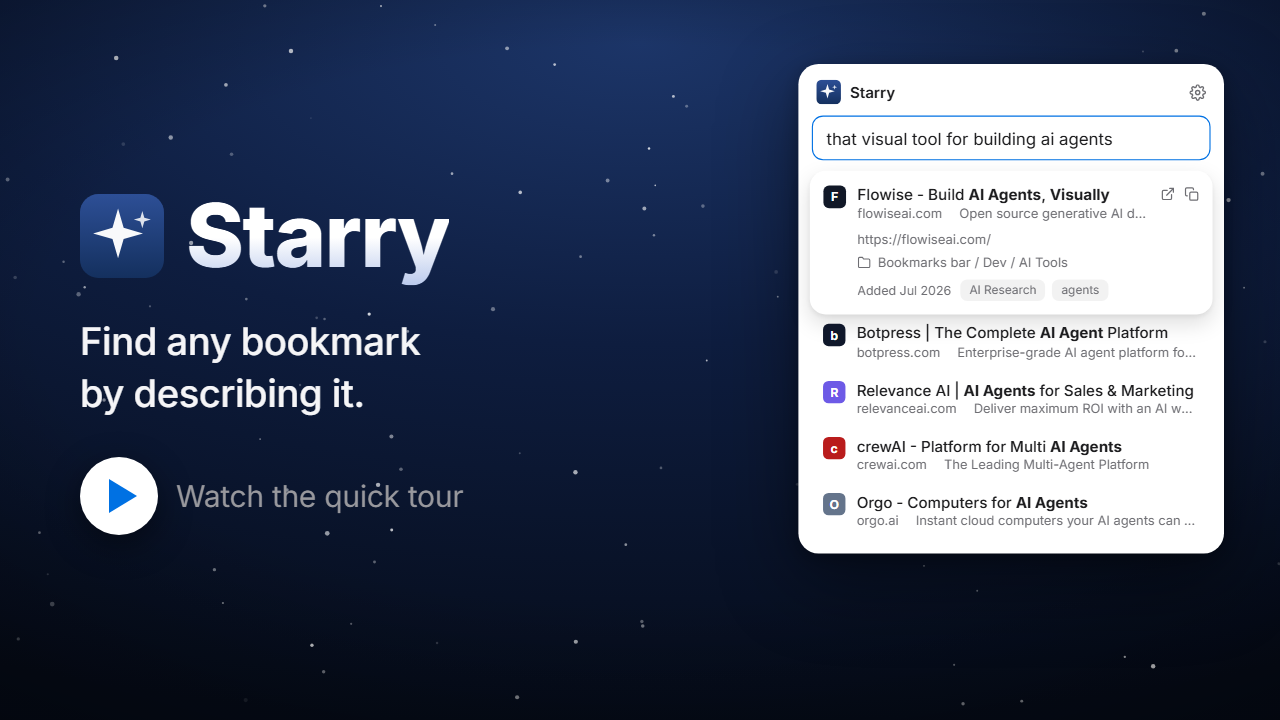
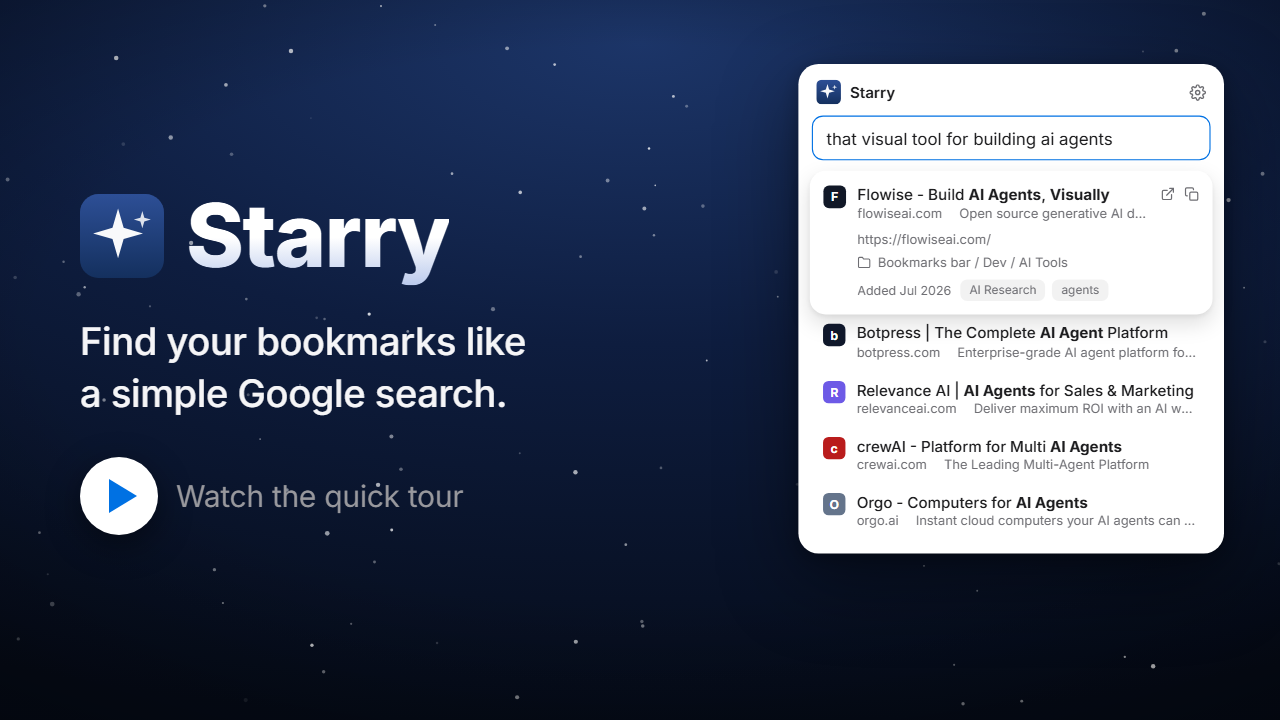
README: promo video is live — clickable thumbnail links to YouTube
- README hero is now the video thumbnail linking to
  https://www.youtube.com/watch?v=fpB1Djvemlw (replaces the static
  screenshot + the commented placeholder block)
- Thumbnail text now matches the store tagline ("Find your bookmarks like
  a simple Google search.") — re-rendered and committed
- docs/store/listing.md records the live URL for the dashboard's promo
  video field; promo/README.md carries it too

Changed region(s): [[0.0625, 0.4583, 0.4062, 0.5806]]

diff --git a/promo/src/Thumbnail.tsx b/promo/src/Thumbnail.tsx
@@ -46,9 +46,8 @@ export const Thumbnail: React.FC = () => (
           fontWeight: 500,
         }}
       >
-        Find any bookmark
-        <br />
-        by describing it.
+        Find your bookmarks like
+        <br />a simple Google search.
       </p>
       <div
         style={{ display: "flex", alignItems: "center", gap: 18, marginTop: 8 }}

diff --git a/docs/store/listing.md b/docs/store/listing.md
@@ -89,6 +89,7 @@ Starry asks to read your bookmarks because that is the whole point. Page reading
 - Small promo tile 440×280 (required in practice — tiles without it rank behind).
 - Marquee 1400×560 (optional; only for marquee featuring).
 - Promo video: YouTube URL field in the Store Listing tab. The video is rendered from the
-  `promo/` Remotion project (`promo/out/starry-promo.mp4`, ~44s, 1080p). Upload to YouTube as
-  Public or Unlisted, then paste the watch URL here and into the README's commented video block
-  (thumbnail already committed at `assets/promo-video-thumb.png`).
+  `promo/` Remotion project (`promo/out/starry-promo.mp4`, ~44s, 1080p). LIVE:
+  `https://www.youtube.com/watch?v=fpB1Djvemlw` — paste this into the dashboard field (video
+  must be Public or Unlisted). The README hero links to it via
+  `assets/promo-video-thumb.png`; set the same PNG as the YouTube custom thumbnail.

diff --git a/README.md b/README.md
@@ -15,19 +15,10 @@
 </p>
 
 <p align="center">
-  <img src="docs/store/assets/shot-1-search-light.png" width="720" alt="Starry ranking results for an ai agent search, with the top result's card expanded" />
-</p>
-
-<!-- PROMO VIDEO — after uploading promo/out/starry-promo.mp4 to YouTube (Public or Unlisted),
-     replace YOUTUBE_VIDEO_ID below and uncomment this block (it becomes the clickable video
-     preview; consider removing the static screenshot above so there is one hero visual):
-
-<p align="center">
-  <a href="https://www.youtube.com/watch?v=YOUTUBE_VIDEO_ID">
+  <a href="https://www.youtube.com/watch?v=fpB1Djvemlw">
     <img src="docs/store/assets/promo-video-thumb.png" width="720" alt="Watch the Starry promo video — the quick tour" />
   </a>
 </p>
--->
 
 
 You saved it. Somewhere. You remember what it was *about*, just not what it was called.

diff --git a/promo/README.md b/promo/README.md
@@ -3,6 +3,9 @@
 A [Remotion](https://www.remotion.dev) project that renders Starry's promo video (for the
 Chrome Web Store listing + YouTube) and the custom video thumbnail (for YouTube + the README).
 
+Live video: <https://www.youtube.com/watch?v=fpB1Djvemlw> (linked from the README hero and the
+CWS listing; if you re-render with meaningful changes, upload a new version and update both).
+
 Everything on screen is faithful to the real product: colors/typography mirror
 `public/tokens.css`, the mark is the exact geometry from `tools/gen-icons.mjs`, the demo
 corpus and expanded-card layout mirror `docs/store/assets/shot-1-search-light.png`, and all
